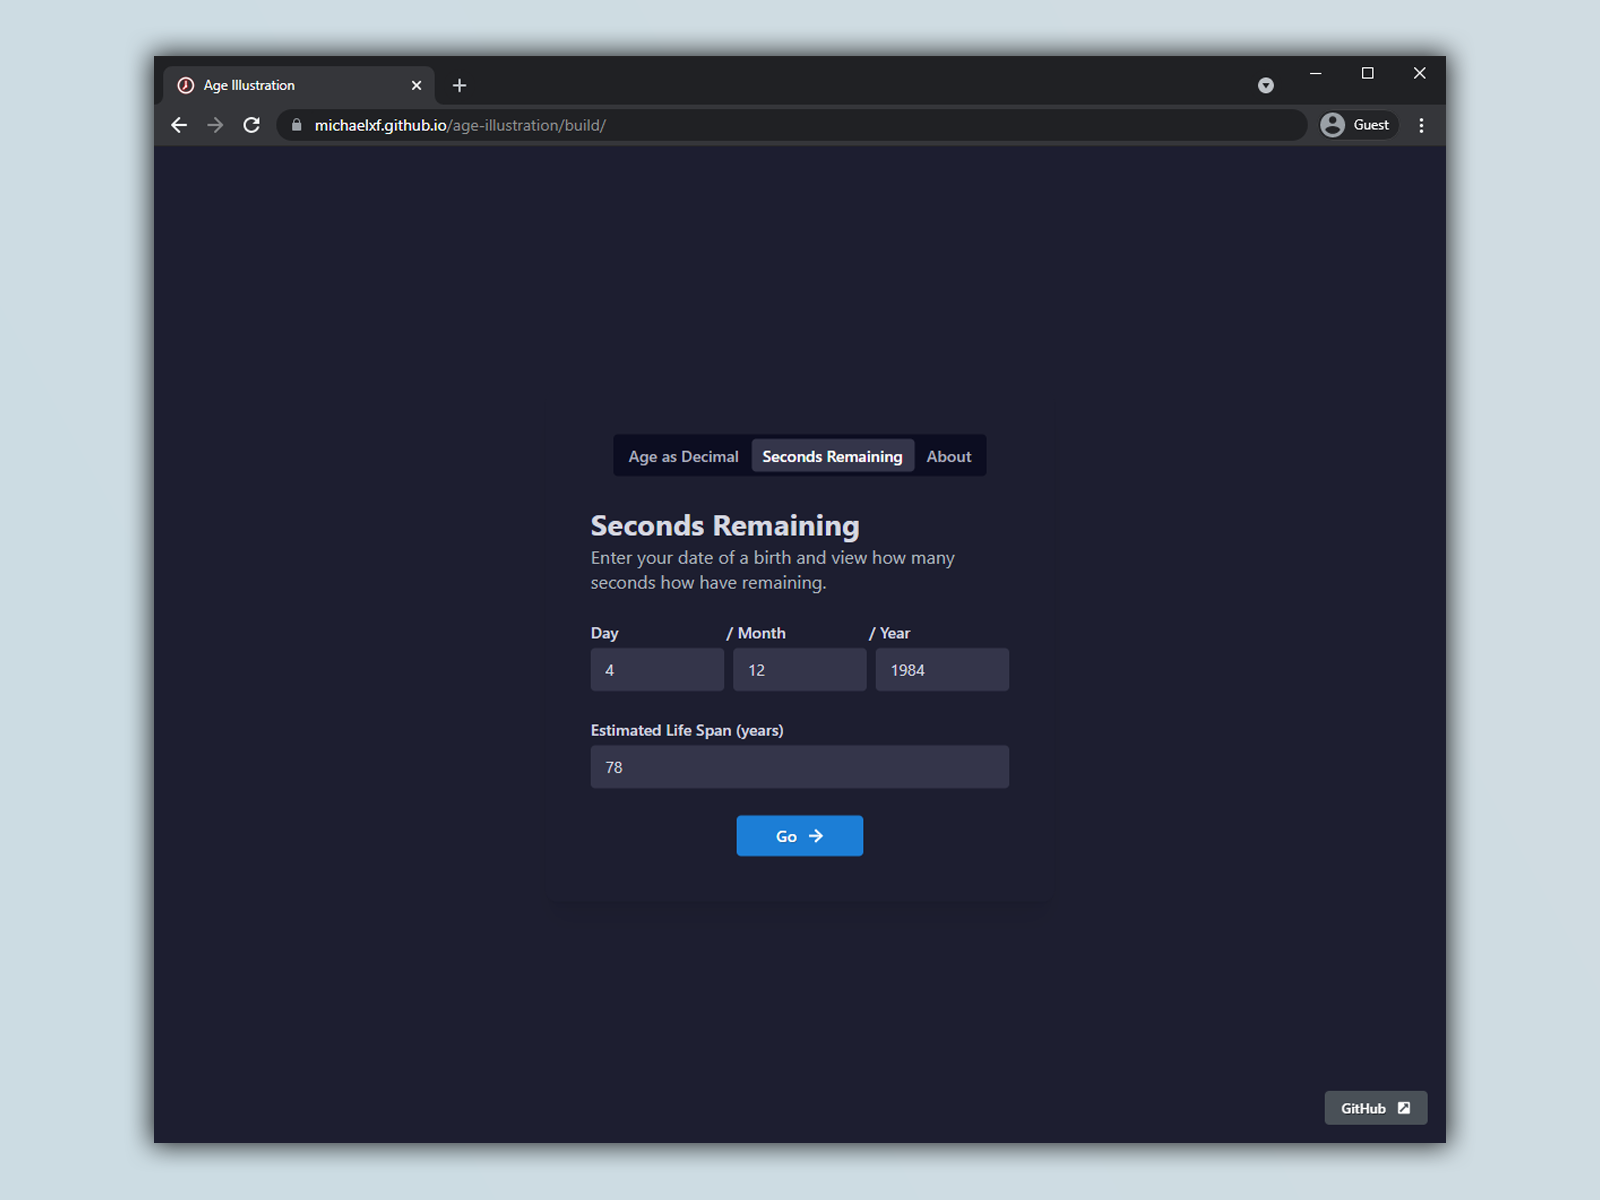
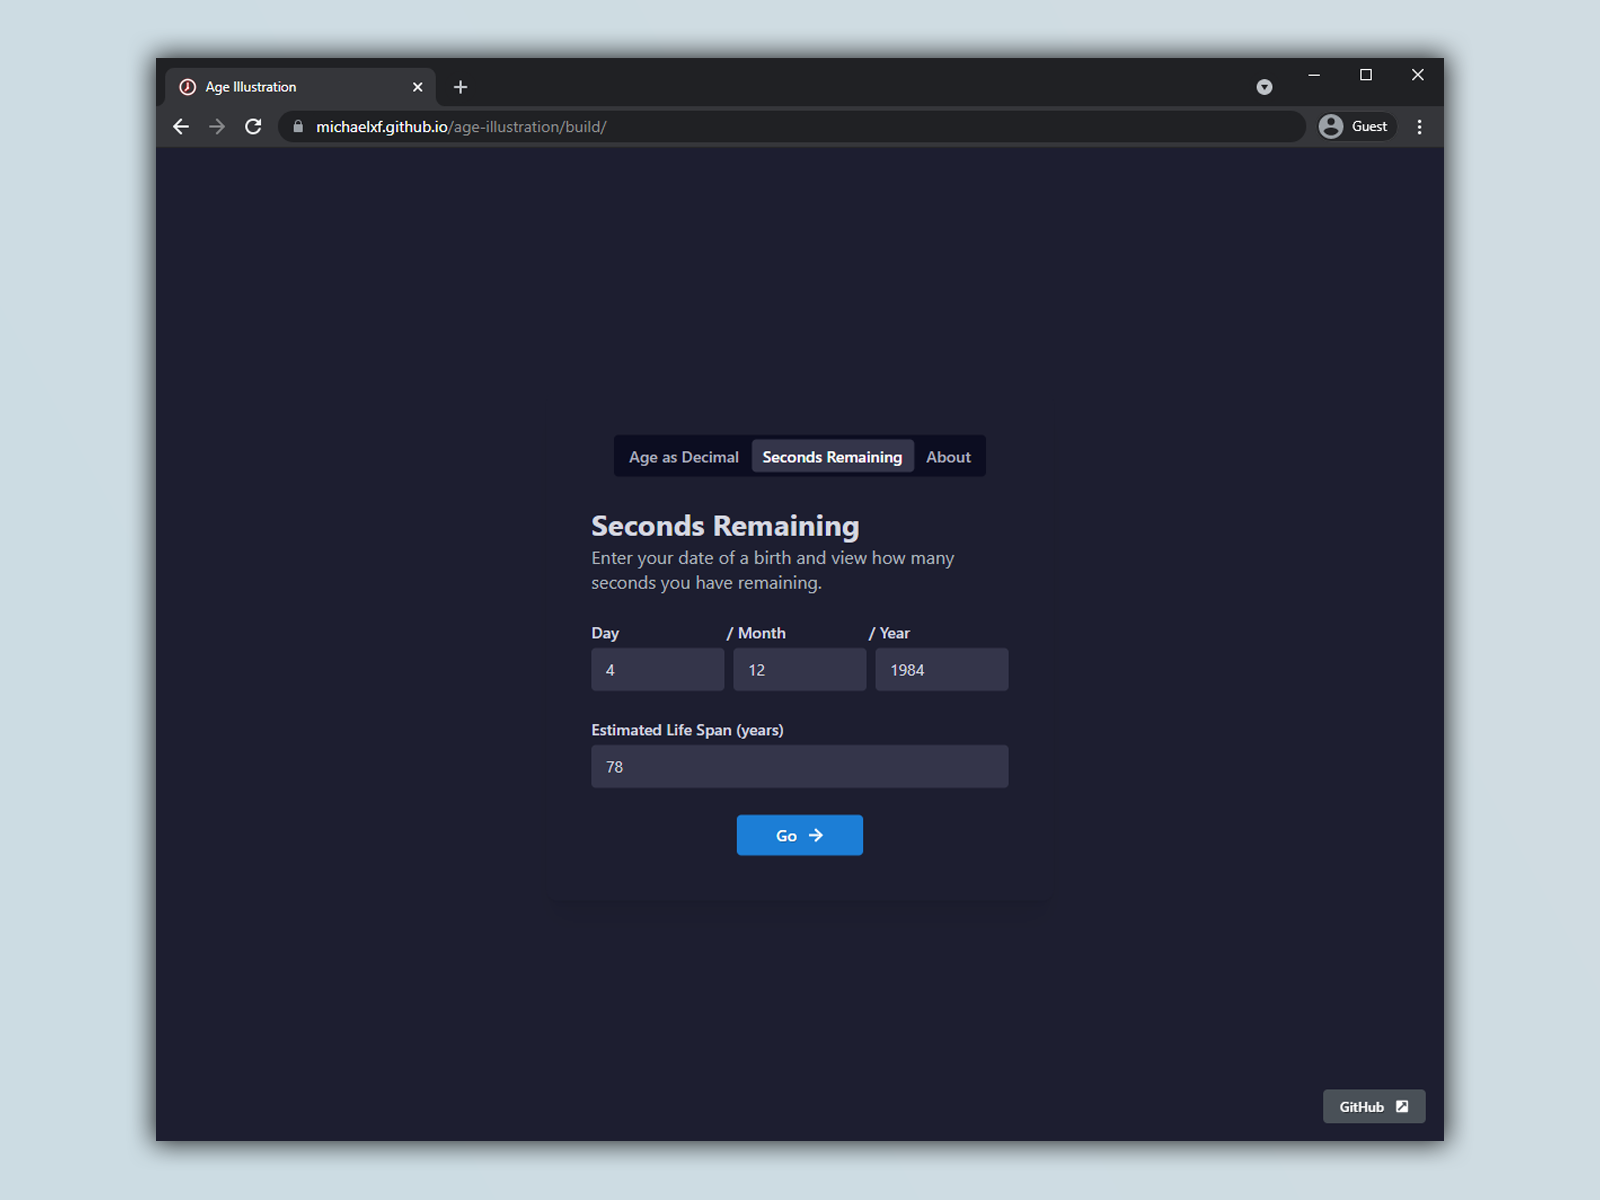
Readme, license, typo fix

diff --git a/build/static/js/main.c52ce553.chunk.js b/build/static/js/main.c52ce553.chunk.js
@@ -1,0 +1,2 @@
+(this.webpackJsonpapp=this.webpackJsonpapp||[]).push([[0],{21:function(e,t,n){},38:function(e,t,n){"use strict";n.r(t);var a=n(1),i=n.n(a),c=n(8),r=n.n(c),o=n(3),s=n(2),l=n(9),u=(n(21),n(4)),j=n(0);function d(){return Object(j.jsxs)("div",{children:[Object(j.jsxs)("div",{className:"app-page-description",children:[Object(j.jsx)(s.Text,{color:"white",style:{fontWeight:"bold",fontSize:"26px"},children:"About"}),Object(j.jsxs)(s.Text,{color:"gray",children:["An illustration to value your own time. Created by MichaelXF and open-source under the MIT License.",Object(j.jsx)("br",{}),Object(j.jsx)("br",{}),"This website uses React combined with Mantine for UI components.",Object(j.jsx)("br",{}),Object(j.jsx)("br",{}),"Source code hosted on GitHub."]})]}),Object(j.jsx)("div",{className:"app-go-button-wrapper",children:Object(j.jsx)(s.Button,{component:"a",target:"_blank",href:"https://github.com/MichaelXF/age-illustration",style:{padding:"0 34px"},size:"sm",color:"gray",rightIcon:Object(j.jsx)(u.c,{}),children:"GitHub"})})]})}var b=Object(a.createContext)({DOB:[],setDOB:function(){}});function p(e){var t=e.onSubmit,n=Object(a.useContext)(b),i=n.DOB,c=n.setDOB;function r(e){return!!e&&((isNaN(e)||e<0||e>4e3)&&"Invalid number")}Object(a.useEffect)((function(){i||c(["","",""])}),[]);var o=i&&i[2],l=i&&i[1],d=i&&i[0];return Object(j.jsxs)("div",{children:[Object(j.jsxs)("div",{className:"app-page-description",children:[Object(j.jsx)(s.Text,{color:"white",style:{fontWeight:"bold",fontSize:"26px"},children:"Age As Decimal"}),Object(j.jsx)(s.Text,{color:"gray",children:"Enter your date of a birth and view your age as a raw decimal. The decimal updates in realtime!"})]}),Object(j.jsxs)("div",{className:"app-dob-flex-wrapper",children:[Object(j.jsx)(s.TextInput,{variant:"filled",placeholder:"Day",label:"Day",value:o,onChange:function(e){return c((function(t){return[t[0],t[1],e.target.value]}))},error:r(o)}),Object(j.jsx)(s.TextInput,{className:"app-dob-shifted-label",variant:"filled",placeholder:"Month",label:"/ Month",value:l,onChange:function(e){return c((function(t){return[t[0],e.target.value,t[2]]}))},error:r(l)}),Object(j.jsx)(s.TextInput,{className:"app-dob-shifted-label",variant:"filled",placeholder:"Year",label:"/ Year",value:d,onChange:function(e){return c((function(t){return[e.target.value,t[1],t[2]]}))},error:r(d)})]}),Object(j.jsx)("div",{className:"app-go-button-wrapper",children:Object(j.jsx)(s.Button,{style:{padding:"0 34px"},size:"sm",rightIcon:Object(j.jsx)(u.a,{}),onClick:function(){i&&!i.find((function(e){return!e||r(e)}))&&t("age_as_decimal",i)},children:"Go"})})]})}function h(e){var t=e.onSubmit,n=Object(a.useContext)(b),i=n.DOB,c=n.setDOB,r=Object(a.useState)(),l=Object(o.a)(r,2),d=l[0],p=l[1];function h(e){return!!e&&((isNaN(e)||e<0||e>4e3)&&"Invalid number")}Object(a.useEffect)((function(){i||c(["","",""]),setTimeout((function(){p("7"),setTimeout((function(){p("78")}),300)}),300)}),[]);var O=i&&i[2],f=i&&i[1],m=i&&i[0];return Object(j.jsxs)("div",{children:[Object(j.jsxs)("div",{className:"app-page-description",children:[Object(j.jsx)(s.Text,{color:"white",style:{fontWeight:"bold",fontSize:"26px"},children:"Seconds Remaining"}),Object(j.jsx)(s.Text,{color:"gray",children:"Enter your date of a birth and view how many seconds you have remaining."})]}),Object(j.jsxs)("div",{className:"app-dob-flex-wrapper",children:[Object(j.jsx)(s.TextInput,{variant:"filled",placeholder:"Day",label:"Day",value:O,onChange:function(e){return c((function(t){return[t[0],t[1],e.target.value]}))},error:h(O)}),Object(j.jsx)(s.TextInput,{className:"app-dob-shifted-label",variant:"filled",placeholder:"Month",label:"/ Month",value:f,onChange:function(e){return c((function(t){return[t[0],e.target.value,t[2]]}))},error:h(f)}),Object(j.jsx)(s.TextInput,{className:"app-dob-shifted-label",variant:"filled",placeholder:"Year",label:"/ Year",value:m,onChange:function(e){return c((function(t){return[e.target.value,t[1],t[2]]}))},error:h(m)})]}),Object(j.jsx)("div",{className:"app-estimated-life-span-wrapper",children:Object(j.jsx)(s.TextInput,{variant:"filled",placeholder:"Estimated Life Span (years)",label:"Estimated Life Span (years)",value:d,onChange:function(e){return p(e.target.value)},error:h(d)})}),Object(j.jsx)("div",{className:"app-go-button-wrapper",children:Object(j.jsx)(s.Button,{style:{padding:"0 34px"},size:"sm",rightIcon:Object(j.jsx)(u.a,{}),onClick:function(){i&&!i.find((function(e){return!e||h(e)}))&&t("seconds_remaining",i,d)},children:"Go"})})]})}function O(e){var t=e.onSubmit,n=Object(a.useState)("age_as_decimal"),i=Object(o.a)(n,2),c=i[0],r=i[1];return Object(j.jsx)(s.Paper,{padding:"md",radius:"10px",shadow:"md",className:"app-main-component",children:Object(j.jsxs)("div",{className:"app-main-component-body",children:[Object(j.jsx)("div",{className:"app-main-component-tab-switcher-wrapper",children:Object(j.jsx)(s.SegmentedControl,{value:c,onChange:function(e){return r(e)},data:[{label:"Age as Decimal",value:"age_as_decimal"},{label:"Seconds Remaining",value:"seconds_remaining"},{label:"About",value:"about"}]})}),Object(j.jsx)("div",{className:"app-main-component-body-page",children:"age_as_decimal"==c?Object(j.jsx)(p,{onSubmit:t}):"seconds_remaining"==c?Object(j.jsx)(h,{onSubmit:t}):Object(j.jsx)(d,{})})]})})}function f(e){var t=e.toString().split(".");return t[0]=t[0].replace(/\B(?=(\d{3})+(?!\d))/g,","),t.join(".")}function m(e){var t=e.data,n=e.type,i=e.onBackButton,c=Object(a.useRef)(),r=t||[],l=Object(o.a)(r,2),d=l[0],b=l[1],p=d&&d[0]?new Date(d[0]+" "+d[1]+" "+d[2]):null,h=Object(a.useState)("Seconds"),O=Object(o.a)(h,2),m=O[0],x=O[1],g=Object(a.useState)(1e3),v=Object(o.a)(g,2),y=v[0],S=v[1];Object(a.useEffect)((function(){var e,t,a,i,r=!1;function o(){if(!r){var s,l,u="";if("seconds_remaining"==n){var j=parseInt(d[0])+parseInt(b),h=(new Date(j+" "+d[1]+" "+d[2]).getTime()-Date.now())/y,O=Math.floor(h);s=O.toString().endsWith("0"),l=O,s&&i!==l&&(a||(c.current.classList.add("blinking"),a=!0,i=l,t=Date.now())),a&&Date.now()-t>1e3&&(c.current.classList.remove("blinking"),t=null,a=!1),u=f(O)+" "+(1===O?m.slice(0,m.length-1):m)}else{u=f(((Date.now()-p.getTime())/1e3/60/60/24/365).toFixed(8))+" years"}e&&u===e||c.current&&(c.current.innerText=u+"",e=u),requestAnimationFrame(o)}}return c.current&&c.current.classList.remove("blinking"),o(),function(){r=!0,cancelAnimationFrame(o)}}),[m,y]);var T="age_as_decimal"==n?"You are...":"You have";return Object(j.jsxs)("div",{className:"app-view-widget",children:[Object(j.jsx)(s.Text,{style:{fontStyle:"italic",fontSize:"18px"},children:T}),Object(j.jsx)("h1",{ref:c,style:{lineHeight:1,marginTop:"0.3rem",marginBottom:"2rem",fontSize:"50px",fontWeight:"bold"},children:"...computing..."}),"age_as_decimal"==n?Object(j.jsx)(s.Text,{children:"of age..."}):Object(j.jsxs)(s.Text,{children:[Object(j.jsx)(s.Menu,{control:Object(j.jsx)(s.Button,{rightIcon:Object(j.jsx)(u.b,{}),style:{marginRight:"0.5rem"},children:m}),menuPosition:{top:45,left:0},transition:"fade",transitionDuration:300,transitionTimingFunction:"ease",children:[["Seconds",1e3],["Minutes",6e4],["Hours",36e5],["Days",864e5],["Weeks",6048e5],["Months",2592e6],["Years",31536e6]].map((function(e,t){var n=Object(o.a)(e,2),a=n[0],i=n[1];return Object(j.jsx)(s.MenuItem,{onClick:function(){x(a),S(i)},children:a},t)}))}),"remaining in your life"]}),Object(j.jsx)("div",{style:{marginTop:"3rem",textAlign:"right"},children:Object(j.jsx)(s.Button,{onClick:function(){i()},size:"xs",variant:"link",rightIcon:Object(j.jsx)(u.a,{}),children:"Back"})})]})}function x(){var e=Object(a.useState)(!1),t=Object(o.a)(e,2),n=t[0],i=t[1],c=Object(a.useState)(!1),r=Object(o.a)(c,2),l=r[0],u=r[1],d=Object(a.useState)(),b=Object(o.a)(d,2),p=b[0],h=b[1],f=Object(a.useState)([]),x=Object(o.a)(f,2),g=x[0],v=x[1];function y(e,t){var n=arguments.length>2&&void 0!==arguments[2]?arguments[2]:null;i(!1),setTimeout((function(){u(!0)}),700),h(e),v([t,n])}function S(){u(!1),setTimeout((function(){i(!0)}),700)}return Object(a.useEffect)((function(){setTimeout((function(){i(!0)}),200)}),[]),Object(j.jsxs)("div",{children:[Object(j.jsx)(s.Transition,{mounted:n,transition:"fade",duration:800,timingFunction:"ease",children:function(e){return Object(j.jsx)("div",{style:e,children:Object(j.jsx)(O,{onSubmit:y})})}}),Object(j.jsx)(s.Transition,{mounted:l,transition:"fade",duration:800,timingFunction:"ease",children:function(e){return Object(j.jsx)("div",{style:e,children:Object(j.jsx)(m,{data:g,type:p,onBackButton:S})})}})]})}function g(){return Object(j.jsx)("div",{className:"app-footer",children:Object(j.jsx)(s.Button,{component:"a",to:"https://github.com/MichaelXF/age-illustration",style:{marginLeft:"auto"},color:"gray",size:"xs",rightIcon:Object(j.jsx)(u.c,{}),children:"GitHub"})})}var v=function(){var e=Object(l.useLocalStorageValue)({key:"DOB",defaultValue:",,"}),t=Object(o.a)(e,2),n=t[0],i=t[1],c=Object(a.useState)(n?n.split(","):[]),r=Object(o.a)(c,2),u=r[0],d=r[1],p=Object(a.useMemo)((function(){return i(u.join(",")),{DOB:u,setDOB:d}}),[u]);return Object(j.jsx)(b.Provider,{value:p,children:Object(j.jsxs)(s.MantineProvider,{theme:{colorScheme:"dark"},children:[Object(j.jsx)(s.GlobalStyles,{}),Object(j.jsx)(x,{}),Object(j.jsx)(g,{})]})})},y=function(e){e&&e instanceof Function&&n.e(3).then(n.bind(null,39)).then((function(t){var n=t.getCLS,a=t.getFID,i=t.getFCP,c=t.getLCP,r=t.getTTFB;n(e),a(e),i(e),c(e),r(e)}))};r.a.render(Object(j.jsx)(i.a.StrictMode,{children:Object(j.jsx)(v,{})}),document.getElementById("root")),y()}},[[38,1,2]]]);
+//# sourceMappingURL=main.c52ce553.chunk.js.map

diff --git a/build/index.html b/build/index.html
@@ -1,1 +1,1 @@
-<!doctype html><html lang="en"><head><meta charset="utf-8"/><link rel="icon" href="/age-illustration/build/favicon.ico"/><meta name="viewport" content="width=device-width,initial-scale=1"/><meta name="theme-color" content="#000000"/><meta name="description" content="Web site created using create-react-app"/><link rel="apple-touch-icon" href="/age-illustration/build/logo192.png"/><link rel="manifest" href="/age-illustration/build/manifest.json"/><title>Age Illustration</title><link href="/age-illustration/build/static/css/main.a8405403.chunk.css" rel="stylesheet"></head><body><noscript>You need to enable JavaScript to run this app.</noscript><div id="root"></div><script>!function(e){function r(r){for(var n,a,i=r[0],c=r[1],l=r[2],p=0,s=[];p<i.length;p++)a=i[p],Object.prototype.hasOwnProperty.call(o,a)&&o[a]&&s.push(o[a][0]),o[a]=0;for(n in c)Object.prototype.hasOwnProperty.call(c,n)&&(e[n]=c[n]);for(f&&f(r);s.length;)s.shift()();return u.push.apply(u,l||[]),t()}function t(){for(var e,r=0;r<u.length;r++){for(var t=u[r],n=!0,i=1;i<t.length;i++){var c=t[i];0!==o[c]&&(n=!1)}n&&(u.splice(r--,1),e=a(a.s=t[0]))}return e}var n={},o={1:0},u=[];function a(r){if(n[r])return n[r].exports;var t=n[r]={i:r,l:!1,exports:{}};return e[r].call(t.exports,t,t.exports,a),t.l=!0,t.exports}a.e=function(e){var r=[],t=o[e];if(0!==t)if(t)r.push(t[2]);else{var n=new Promise((function(r,n){t=o[e]=[r,n]}));r.push(t[2]=n);var u,i=document.createElement("script");i.charset="utf-8",i.timeout=120,a.nc&&i.setAttribute("nonce",a.nc),i.src=function(e){return a.p+"static/js/"+({}[e]||e)+"."+{3:"1eef0dae"}[e]+".chunk.js"}(e);var c=new Error;u=function(r){i.onerror=i.onload=null,clearTimeout(l);var t=o[e];if(0!==t){if(t){var n=r&&("load"===r.type?"missing":r.type),u=r&&r.target&&r.target.src;c.message="Loading chunk "+e+" failed.\n("+n+": "+u+")",c.name="ChunkLoadError",c.type=n,c.request=u,t[1](c)}o[e]=void 0}};var l=setTimeout((function(){u({type:"timeout",target:i})}),12e4);i.onerror=i.onload=u,document.head.appendChild(i)}return Promise.all(r)},a.m=e,a.c=n,a.d=function(e,r,t){a.o(e,r)||Object.defineProperty(e,r,{enumerable:!0,get:t})},a.r=function(e){"undefined"!=typeof Symbol&&Symbol.toStringTag&&Object.defineProperty(e,Symbol.toStringTag,{value:"Module"}),Object.defineProperty(e,"__esModule",{value:!0})},a.t=function(e,r){if(1&r&&(e=a(e)),8&r)return e;if(4&r&&"object"==typeof e&&e&&e.__esModule)return e;var t=Object.create(null);if(a.r(t),Object.defineProperty(t,"default",{enumerable:!0,value:e}),2&r&&"string"!=typeof e)for(var n in e)a.d(t,n,function(r){return e[r]}.bind(null,n));return t},a.n=function(e){var r=e&&e.__esModule?function(){return e.default}:function(){return e};return a.d(r,"a",r),r},a.o=function(e,r){return Object.prototype.hasOwnProperty.call(e,r)},a.p="/age-illustration/build/",a.oe=function(e){throw console.error(e),e};var i=this.webpackJsonpapp=this.webpackJsonpapp||[],c=i.push.bind(i);i.push=r,i=i.slice();for(var l=0;l<i.length;l++)r(i[l]);var f=c;t()}([])</script><script src="/age-illustration/build/static/js/2.a5ed01af.chunk.js"></script><script src="/age-illustration/build/static/js/main.47dad4a2.chunk.js"></script></body></html>
+<!doctype html><html lang="en"><head><meta charset="utf-8"/><link rel="icon" href="/age-illustration/build/favicon.ico"/><meta name="viewport" content="width=device-width,initial-scale=1"/><meta name="theme-color" content="#000000"/><meta name="description" content="Web site created using create-react-app"/><link rel="apple-touch-icon" href="/age-illustration/build/logo192.png"/><link rel="manifest" href="/age-illustration/build/manifest.json"/><title>Age Illustration</title><link href="/age-illustration/build/static/css/main.a8405403.chunk.css" rel="stylesheet"></head><body><noscript>You need to enable JavaScript to run this app.</noscript><div id="root"></div><script>!function(e){function r(r){for(var n,a,i=r[0],c=r[1],l=r[2],p=0,s=[];p<i.length;p++)a=i[p],Object.prototype.hasOwnProperty.call(o,a)&&o[a]&&s.push(o[a][0]),o[a]=0;for(n in c)Object.prototype.hasOwnProperty.call(c,n)&&(e[n]=c[n]);for(f&&f(r);s.length;)s.shift()();return u.push.apply(u,l||[]),t()}function t(){for(var e,r=0;r<u.length;r++){for(var t=u[r],n=!0,i=1;i<t.length;i++){var c=t[i];0!==o[c]&&(n=!1)}n&&(u.splice(r--,1),e=a(a.s=t[0]))}return e}var n={},o={1:0},u=[];function a(r){if(n[r])return n[r].exports;var t=n[r]={i:r,l:!1,exports:{}};return e[r].call(t.exports,t,t.exports,a),t.l=!0,t.exports}a.e=function(e){var r=[],t=o[e];if(0!==t)if(t)r.push(t[2]);else{var n=new Promise((function(r,n){t=o[e]=[r,n]}));r.push(t[2]=n);var u,i=document.createElement("script");i.charset="utf-8",i.timeout=120,a.nc&&i.setAttribute("nonce",a.nc),i.src=function(e){return a.p+"static/js/"+({}[e]||e)+"."+{3:"1eef0dae"}[e]+".chunk.js"}(e);var c=new Error;u=function(r){i.onerror=i.onload=null,clearTimeout(l);var t=o[e];if(0!==t){if(t){var n=r&&("load"===r.type?"missing":r.type),u=r&&r.target&&r.target.src;c.message="Loading chunk "+e+" failed.\n("+n+": "+u+")",c.name="ChunkLoadError",c.type=n,c.request=u,t[1](c)}o[e]=void 0}};var l=setTimeout((function(){u({type:"timeout",target:i})}),12e4);i.onerror=i.onload=u,document.head.appendChild(i)}return Promise.all(r)},a.m=e,a.c=n,a.d=function(e,r,t){a.o(e,r)||Object.defineProperty(e,r,{enumerable:!0,get:t})},a.r=function(e){"undefined"!=typeof Symbol&&Symbol.toStringTag&&Object.defineProperty(e,Symbol.toStringTag,{value:"Module"}),Object.defineProperty(e,"__esModule",{value:!0})},a.t=function(e,r){if(1&r&&(e=a(e)),8&r)return e;if(4&r&&"object"==typeof e&&e&&e.__esModule)return e;var t=Object.create(null);if(a.r(t),Object.defineProperty(t,"default",{enumerable:!0,value:e}),2&r&&"string"!=typeof e)for(var n in e)a.d(t,n,function(r){return e[r]}.bind(null,n));return t},a.n=function(e){var r=e&&e.__esModule?function(){return e.default}:function(){return e};return a.d(r,"a",r),r},a.o=function(e,r){return Object.prototype.hasOwnProperty.call(e,r)},a.p="/age-illustration/build/",a.oe=function(e){throw console.error(e),e};var i=this.webpackJsonpapp=this.webpackJsonpapp||[],c=i.push.bind(i);i.push=r,i=i.slice();for(var l=0;l<i.length;l++)r(i[l]);var f=c;t()}([])</script><script src="/age-illustration/build/static/js/2.a5ed01af.chunk.js"></script><script src="/age-illustration/build/static/js/main.c52ce553.chunk.js"></script></body></html>

diff --git a/src/components/SecondsRemaining.js b/src/components/SecondsRemaining.js
@@ -54,7 +54,7 @@ export default function SecondsRemaining({ onSubmit }) {
           Seconds Remaining
         </Text>
         <Text color='gray'>
-          Enter your date of a birth and view how many seconds how have
+          Enter your date of a birth and view how many seconds you have
           remaining.
         </Text>
       </div>

diff --git a/README.md b/README.md
@@ -1,1 +1,21 @@
-# Age Illustration
+# [Age Illustration](https://michaelxf.github.io/age-illustration/build/)
+
+An illustration to value your own time. Created by MichaelXF and open-source under the MIT License.
+
+**Age As Decimal:** Displays your age as a raw decimal, incrementing in realtime.
+
+**Seconds Remaining:** Displays how many seconds you have left in your life.
+
+**[Try the website here.](https://michaelxf.github.io/age-illustration/build/)**
+
+`https://michaelxf.github.io/age-illustration/build`
+
+![Image of Website](https://raw.githubusercontent.com/MichaelXF/age-illustration/master/images/preview_1.png)
+
+![Image of Website (2)](https://raw.githubusercontent.com/MichaelXF/age-illustration/master/images/preview_2.png)
+
+![Image of Website (3)](https://raw.githubusercontent.com/MichaelXF/age-illustration/master/images/preview_3.png)
+
+![Image of Website (4)](https://raw.githubusercontent.com/MichaelXF/age-illustration/master/images/preview_4.png)
+
+![Image of Website (5)](https://raw.githubusercontent.com/MichaelXF/age-illustration/master/images/preview_5.png)
